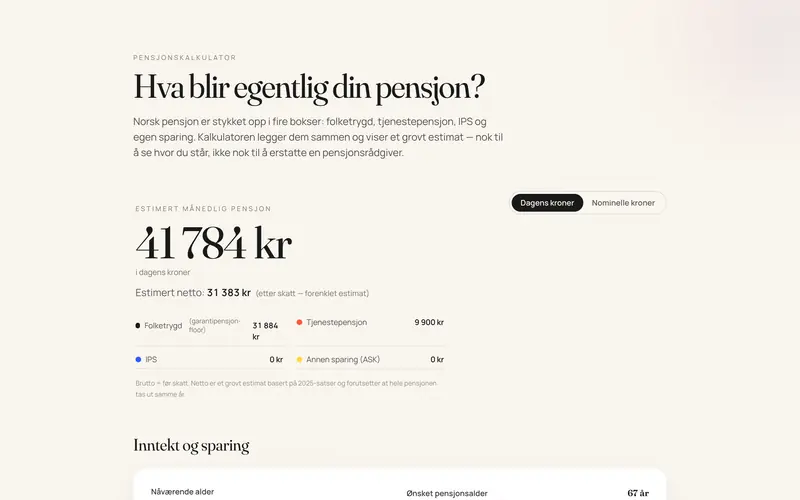
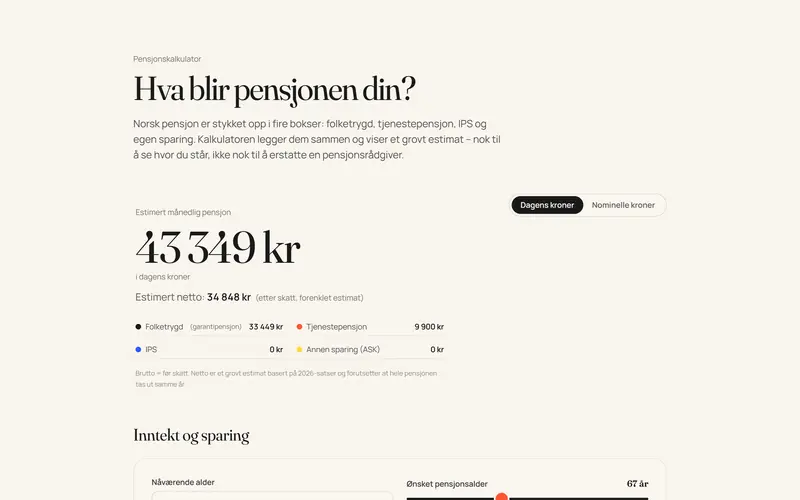
pensjonskalkulator: rolig drakt (krem-familiens regler)
Ingen glød, fargede skygger eller inngangsanimasjoner; etiketter i setningsform.
Reglene står i pensjonskalkulator-src/CLAUDE.md og DESIGN.md. Speilrepoet får
samme endring i egen commit.

diff --git a/pensjonskalkulator-src/src/components/GapAnalysis.tsx b/pensjonskalkulator-src/src/components/GapAnalysis.tsx
@@ -12,10 +12,10 @@ export function GapAnalysis({ result }: Props) {
 
   if (gapAnalysis.onTrack) {
     return (
-      <div className="rounded-3xl bg-white shadow-card p-5 sm:p-7">
-        <div className="text-xs uppercase tracking-[0.25em] text-muted mb-2">Gap-analyse</div>
+      <div className="rounded-3xl bg-bg border border-ink/10 p-5 sm:p-7">
+        <div className="text-sm text-muted mb-2">Gap-analyse</div>
         <p className="font-display text-2xl sm:text-3xl text-ink leading-snug">
-          Du er på god vei — estimert dekningsgrad{' '}
+          Du er på god vei: estimert dekningsgrad{' '}
           <span className="text-accent">{formatPercent(replacementRatio, 0)}</span> av
           sluttlønn.
         </p>
@@ -35,8 +35,8 @@ export function GapAnalysis({ result }: Props) {
   }
 
   return (
-    <div className="rounded-3xl bg-ink text-bg shadow-pop p-5 sm:p-7">
-      <div className="text-xs uppercase tracking-[0.25em] text-bg/60 mb-2">Gap-analyse</div>
+    <div className="rounded-3xl bg-ink text-bg p-5 sm:p-7">
+      <div className="text-sm text-bg/60 mb-2">Gap-analyse</div>
       <p className="font-display text-2xl sm:text-3xl leading-snug">
         For å nå {formatPercent(targetPct, 0)} av sluttlønn må du spare ekstra{' '}
         <span className="text-accent">{formatKr(gapAnalysis.extraAskMonthlyToday)}</span>{' '}
@@ -44,7 +44,7 @@ export function GapAnalysis({ result }: Props) {
       </p>
       <p className="text-sm text-bg/70 mt-3 max-w-xl leading-relaxed">
         Estimert dekningsgrad i dag: {formatPercent(replacementRatio, 0)}. Tallet er regnet
-        i dagens kroner — beløpet justeres automatisk med inflasjon i utregningen.
+        i dagens kroner, og beløpet justeres automatisk med inflasjon i utregningen.
       </p>
       <p className="text-xs text-bg/60 mt-4 leading-relaxed max-w-xl">
         Dekningsgrad måles mot sluttlønn. Ved sen pensjonering vokser sluttlønnen raskere

diff --git a/pensjonskalkulator-src/src/components/PensionChart.tsx b/pensjonskalkulator-src/src/components/PensionChart.tsx
@@ -55,12 +55,12 @@ export function PensionChart({ result, displayMode }: Props) {
   const retirementAge = result.inputs.retirementAge
 
   return (
-    <div className="rounded-3xl bg-white shadow-card p-5 sm:p-7">
+    <div className="rounded-3xl bg-bg border border-ink/10 p-5 sm:p-7">
       <div className="flex items-baseline justify-between flex-wrap gap-2 mb-1">
         <h3 className="font-display text-xl sm:text-2xl text-ink">
           Akkumulert kapital over tid
         </h3>
-        <span className="text-xs uppercase tracking-[0.2em] text-muted">
+        <span className="text-sm text-muted">
           {displayMode === 'real' ? 'Dagens kroner' : 'Nominelle kroner'}
         </span>
       </div>
@@ -69,7 +69,7 @@ export function PensionChart({ result, displayMode }: Props) {
         reduseres balansen etter hvert som pengene utbetales.
       </p>
       <p className="text-xs text-muted/80 mb-5 mt-1">
-        Folketrygd og AFP utbetales livsvarig — kapitalen i grafen er kun en regnemodell og
+        Folketrygd og AFP utbetales livsvarig. Kapitalen i grafen er kun en regnemodell og
         kan gå mot null selv om utbetalingen fortsetter.
       </p>
 
@@ -170,7 +170,7 @@ function ChartTooltip({
   if (!active || !payload || payload.length === 0) return null
   const row = payload[0].payload
   return (
-    <div className="bg-white rounded-xl shadow-card border border-ink/10 px-4 py-3 text-sm">
+    <div className="bg-bg rounded-xl border border-ink/10 px-4 py-3 text-sm">
       <div className="font-display font-semibold text-ink mb-1.5">{label} år</div>
       <ul className="space-y-0.5">
         {STACK_ORDER.map((src) => (

diff --git a/pensjonskalkulator-src/src/components/HeroNumber.tsx b/pensjonskalkulator-src/src/components/HeroNumber.tsx
@@ -25,7 +25,7 @@ export function HeroNumber({
       aria-labelledby="hero-heading"
       className="rounded-3xl bg-bg/0 px-1 py-2 sm:py-6"
     >
-      <div className="text-xs uppercase tracking-[0.25em] text-muted mb-3">
+      <div className="text-sm text-muted mb-3">
         Estimert månedlig pensjon
       </div>
       <div
@@ -40,7 +40,7 @@ export function HeroNumber({
       <p className="text-base sm:text-lg text-ink/70 mt-3">
         Estimert netto:{' '}
         <span className="font-semibold text-ink tabular">{formatKr(monthly.net)}</span>
-        <span className="text-muted text-sm ml-2">(etter skatt — forenklet estimat)</span>
+        <span className="text-muted text-sm ml-2">(etter skatt, forenklet estimat)</span>
       </p>
 
       <ul className="mt-6 grid grid-cols-1 sm:grid-cols-2 gap-x-6 gap-y-2 max-w-xl">
@@ -60,10 +60,10 @@ export function HeroNumber({
                 />
                 <span className="text-ink/75">{SOURCE_LABELS[src]}</span>
                 {src === 'folketrygd' && folketrygdAtGarantipensjonFloor && (
-                  <span className="text-xs text-muted ml-1">(garantipensjon-floor)</span>
+                  <span className="text-xs text-muted ml-1">(garantipensjon)</span>
                 )}
               </span>
-              <span className="font-semibold tabular text-ink">{formatKr(value)}</span>
+              <span className="font-semibold tabular text-ink whitespace-nowrap">{formatKr(value)}</span>
             </li>
           )
         })}

diff --git a/pensjonskalkulator-src/src/components/InputPanel.tsx b/pensjonskalkulator-src/src/components/InputPanel.tsx
@@ -24,7 +24,7 @@ export function InputPanel({ inputs, update, macro }: Props) {
   const cap71G = G_CAP_LOW * gSnitt
 
   return (
-    <div className="rounded-3xl bg-white shadow-card p-5 sm:p-8">
+    <div className="rounded-3xl bg-bg border border-ink/10 p-5 sm:p-8">
       {/* Hovedseksjon */}
       <div className="grid grid-cols-1 md:grid-cols-2 gap-5 sm:gap-6">
         <NumberField
@@ -140,7 +140,7 @@ export function InputPanel({ inputs, update, macro }: Props) {
           help={`Maks ${formatKr(IPS_ANNUAL_MAX)} per år.`}
           warning={
             ipsOver
-              ? `Vi bruker ${formatKr(IPS_ANNUAL_MAX)} i beregningen — det er lovlig maks. Sett verdien ned, eller la den stå (beregningen kapper uansett).`
+              ? `Vi bruker ${formatKr(IPS_ANNUAL_MAX)} i beregningen, som er lovlig maks. Sett verdien ned, eller la den stå (beregningen kapper uansett).`
               : undefined
           }
         />
@@ -167,7 +167,7 @@ export function InputPanel({ inputs, update, macro }: Props) {
 
       {/* Avansert */}
       <details className="mt-6 border-t border-ink/10 pt-5 group">
-        <summary className="cursor-pointer text-sm font-semibold text-accent uppercase tracking-[0.2em] list-none flex items-center gap-2 select-none">
+        <summary className="cursor-pointer text-sm font-semibold text-accent list-none flex items-center gap-2 select-none">
           <span
             aria-hidden
             className="inline-block transition-transform group-open:rotate-90"

diff --git a/pensjonskalkulator-src/src/App.tsx b/pensjonskalkulator-src/src/App.tsx
@@ -67,24 +67,18 @@ function App() {
 
   return (
     <div className="min-h-screen bg-bg text-ink grain">
-      {/* Decorative background blobs */}
-      <div aria-hidden className="pointer-events-none fixed inset-0 overflow-hidden z-0">
-        <div className="absolute -top-24 -right-16 w-72 h-72 rounded-full bg-accent/[0.05] blur-3xl" />
-        <div className="absolute -top-20 -right-24 w-64 h-64 rounded-full bg-ghost/[0.05] blur-3xl" />
-      </div>
-
       <main className="relative z-10 max-w-5xl mx-auto px-5 sm:px-8 pt-16 sm:pt-24 pb-10">
         {/* Header */}
         <header className="mb-10 sm:mb-14">
-          <p className="text-xs uppercase tracking-[0.25em] text-muted mb-3">
+          <p className="text-sm text-muted mb-3">
             Pensjonskalkulator
           </p>
           <h1 className="font-display text-4xl sm:text-5xl lg:text-6xl tracking-tight leading-[1.05] text-ink max-w-3xl">
-            Hva blir egentlig din pensjon?
+            Hva blir pensjonen din?
           </h1>
           <p className="text-base sm:text-lg text-ink/75 mt-5 max-w-2xl leading-relaxed">
             Norsk pensjon er stykket opp i fire bokser: folketrygd, tjenestepensjon, IPS og
-            egen sparing. Kalkulatoren legger dem sammen og viser et grovt estimat — nok til
+            egen sparing. Kalkulatoren legger dem sammen og viser et grovt estimat – nok til
             å se hvor du står, ikke nok til å erstatte en pensjonsrådgiver.
           </p>
         </header>

diff --git a/pensjonskalkulator-src/src/components/Footer.tsx b/pensjonskalkulator-src/src/components/Footer.tsx
@@ -4,7 +4,7 @@ export function Footer() {
       <div className="border-t border-ink/10 pt-8">
         <p className="text-xs text-muted leading-relaxed">
           Forenklet estimat for illustrasjonsformål. Bruker faste antakelser om avkastning,
-          inflasjon, delingstall og folketrygdregler — faktisk pensjon kan avvike vesentlig.
+          inflasjon, delingstall og folketrygdregler, så faktisk pensjon kan avvike vesentlig.
           Tall vises brutto, før skatt; ulike pensjonskilder (folketrygd, IPS,
           tjenestepensjon, ASK) beskattes ulikt ved uttak. Uføretrygd og offentlig sektor
           AFP er ikke modellert. Privat AFP er sterkt forenklet. Ikke finansiell rådgivning.

diff --git a/pensjonskalkulator-src/src/index.css b/pensjonskalkulator-src/src/index.css
@@ -73,7 +73,6 @@ input[type='range']::-webkit-slider-thumb {
   border-radius: 999px;
   background: #ff5436;
   border: 3px solid #faf6ef;
-  box-shadow: 0 4px 12px rgba(255, 84, 54, 0.4);
   margin-top: -12px;
   transition: transform 0.15s ease;
 }
@@ -86,7 +85,6 @@ input[type='range']::-moz-range-thumb {
   border-radius: 999px;
   background: #ff5436;
   border: 3px solid #faf6ef;
-  box-shadow: 0 4px 12px rgba(255, 84, 54, 0.4);
 }
 input[type='range']:focus-visible {
   outline: 2px solid #ff5436;

diff --git a/pensjonskalkulator-src/CLAUDE.md b/pensjonskalkulator-src/CLAUDE.md
@@ -73,6 +73,9 @@ gangs deploy ble committet manuelt i workflow-commiten.
 Match `personligokonomi/` — Fraunces (display) + Manrope (body), cream
 `#FAF6EF`, ink `#1A1A1A`, accent `#FF5436`. Redaksjonelt, rolig, ikke
 fintech-startup. Ingen utropstegn, ingen "AI-tonet" språk.
+Rolige regler for krem-familien (2026-10-17): ingen glød-skyer, fargede skygger,
+sperrede versaler, inn-animasjoner eller lange tankestreker i synlig tekst. Se DESIGN.md
+§ Typography, «Calm rules for the cream family» (i site-repoet).
 
 ## Hva som IKKE er modellert
 - Skatt på kapitalinntekt utenom ASK (ASK håndteres separat)
